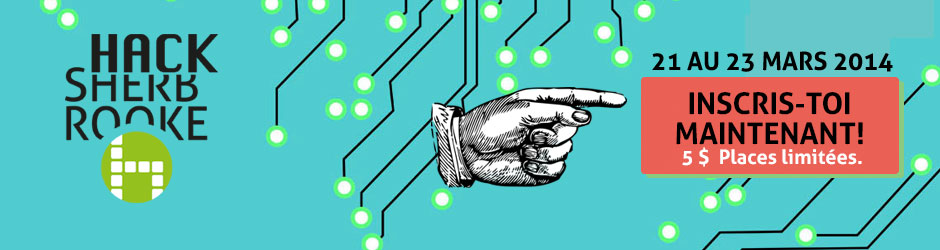
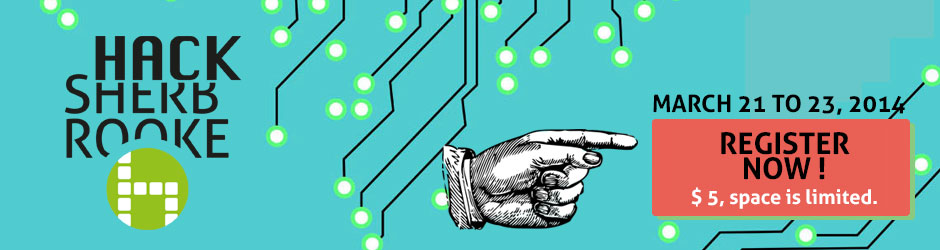
fix theme

Changed region(s): [[0.4319, 0.196, 0.9872, 0.924], [0.0617, 0.112, 0.2777, 0.924]]

diff --git a/ckanext/vds/public/base/javascript/modules/data-viewer.js b/ckanext/vds/public/base/javascript/modules/data-viewer.js
@@ -1,0 +1,55 @@
+// data viewer module
+// resizes the iframe when the content is loaded
+this.ckan.module('data-viewer', function (jQuery) {
+  return {
+    options: {
+      timeout: 200,
+      minHeight: 400,
+      padding: 30
+    },
+
+    initialize: function () {
+      jQuery.proxyAll(this, /_on/);
+      this.el.on('load', this._onLoad);
+      this._FirefoxFix();
+      this.sandbox.subscribe('data-viewer-error', this._onDataViewerError);
+    },
+
+    _onDataViewerError: function(message) {
+      var parent = this.el.parent();
+      $('.data-viewer-error .collapse', parent).html(message);
+      $('.data-viewer-error', parent).removeClass('js-hide');
+       this.el.hide();
+    },
+
+    _onLoad: function() {
+      var self = this;
+      var loc = $('body').data('site-root');
+      // see if page is in part of the same domain
+      if (this.el.attr('src').substring(0, loc.length) === loc) {
+        this._recalibrate();
+        setInterval(function() {
+          self._recalibrate();
+        }, this.options.timeout);
+      } else {
+        this.el.css('height', 600);
+      }
+    },
+
+    _recalibrate: function() {
+      var height = this.el.contents().find('body').outerHeight(true);
+      height = Math.max(height, this.options.minHeight);
+      if (height > 600) {height = 600}
+      this.el.css('height', height + this.options.padding);
+    },
+
+    // firefox caches iframes so force it to get fresh content
+    _FirefoxFix: function() {
+      if(/#$/.test(this.el.src)) {
+        this.el.src = this.el.src.substr(0, this.src.length - 1);
+      } else {
+        this.el.src = this.el.src + '#';
+      }
+    }
+  };
+});

diff --git a/ckanext/vds/public/base/javascript/modules/data-viewer.min.js b/ckanext/vds/public/base/javascript/modules/data-viewer.min.js
@@ -1,0 +1,1 @@
+this.ckan.module('data-viewer',function(jQuery){return{options:{timeout:200,minHeight:400,padding:30},initialize:function(){jQuery.proxyAll(this,/_on/);this.el.on('load',this._onLoad);this._FirefoxFix();this.sandbox.subscribe('data-viewer-error',this._onDataViewerError);},_onDataViewerError:function(message){var parent=this.el.parent();$('.data-viewer-error .collapse',parent).html(message);$('.data-viewer-error',parent).removeClass('js-hide');this.el.hide();},_onLoad:function(){var self=this;var loc=$('body').data('site-root');if(this.el.attr('src').substring(0,loc.length)===loc){this._recalibrate();setInterval(function(){self._recalibrate();},this.options.timeout);}else{this.el.css('height',600);}},_recalibrate:function(){var height=this.el.contents().find('body').outerHeight(true);height=Math.max(height,this.options.minHeight);if (height > 800) {height = 800}this.el.css('height',height+this.options.padding);},_FirefoxFix:function(){if(/#$/.test(this.el.src)){this.el.src=this.el.src.substr(0,this.src.length-1);}else{this.el.src=this.el.src+'#';}}};});

diff --git a/ckanext/vds/templates/home/index.html b/ckanext/vds/templates/home/index.html
@@ -9,8 +9,8 @@
     <div id="content" class="container">
       {{ self.flash() }}
       <div id="camera_wrap" data-module="vds">
-	      <div data-src="/images/banners/ckan_header.jpg" data-link="http://hacksherbrooke.com/" data-target="_blank">
-	      	<div class="camera_caption">Nous vous invitons au premier hackathon Sherbrookois</div>
+	      <div data-src="/images/banners/{{_('ckan_header.jpg')}}" data-link="http://hacksherbrooke.com/" data-target="_blank">
+	      	<div class="camera_caption">{{_('We invite you to the first Sherbrooke Hackathon')}}</div>
 	      </div>
 	      <div data-src="/images/banners/4logos_donnees.jpg" data-link="http://www.ville.sherbrooke.qc.ca/salle-de-presse/actualites/communiques-et-actualites/communiques/article/le-gouvernement-du-quebec-et-les-villes-de-quebec-montreal-gatineau-et-sherbrooke-adoptent-une/" data-target="_blank">
 	      	<div class="camera_caption">Une licence commune d’utilisation des données ouvertes.</div>
